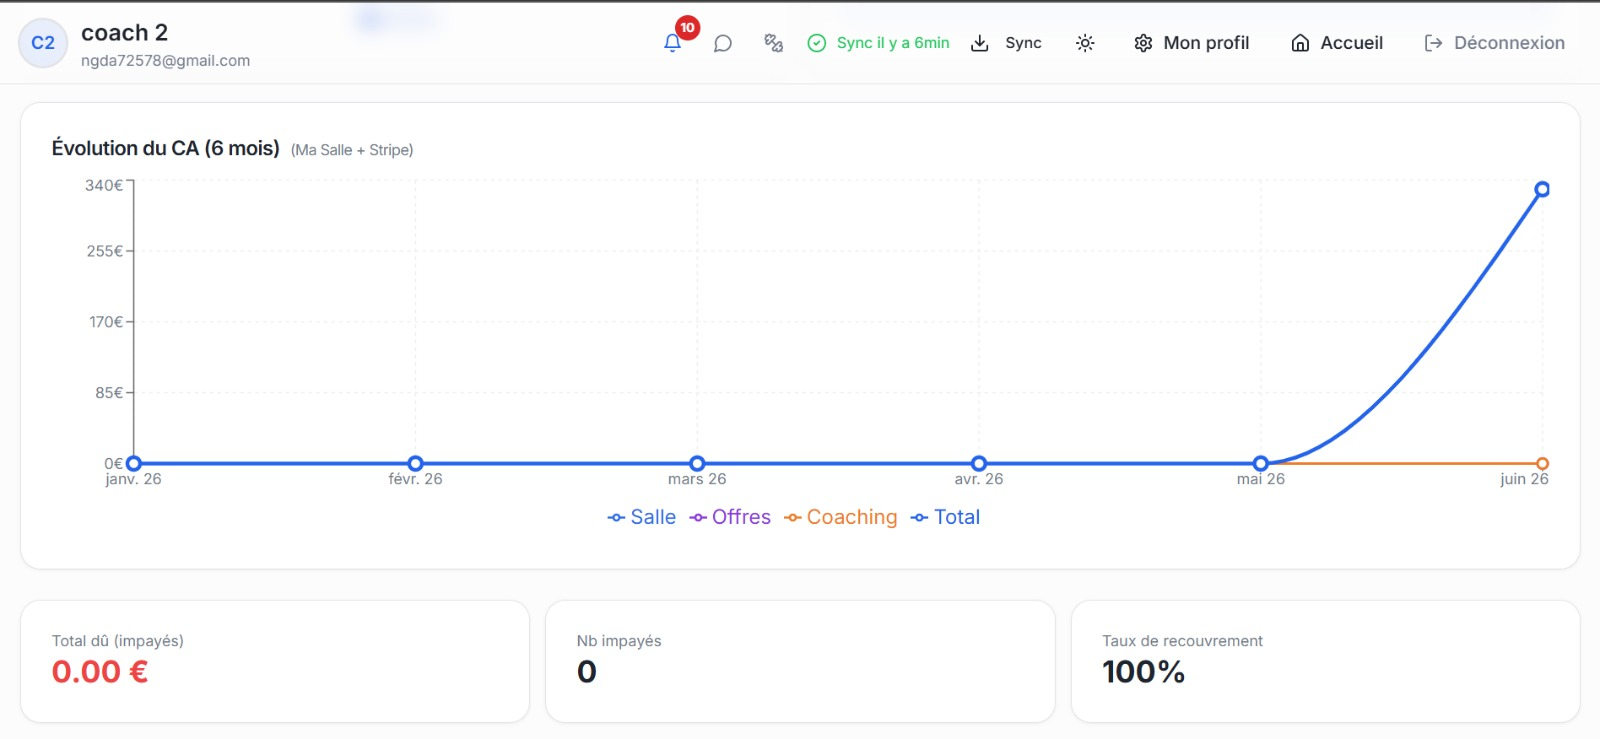
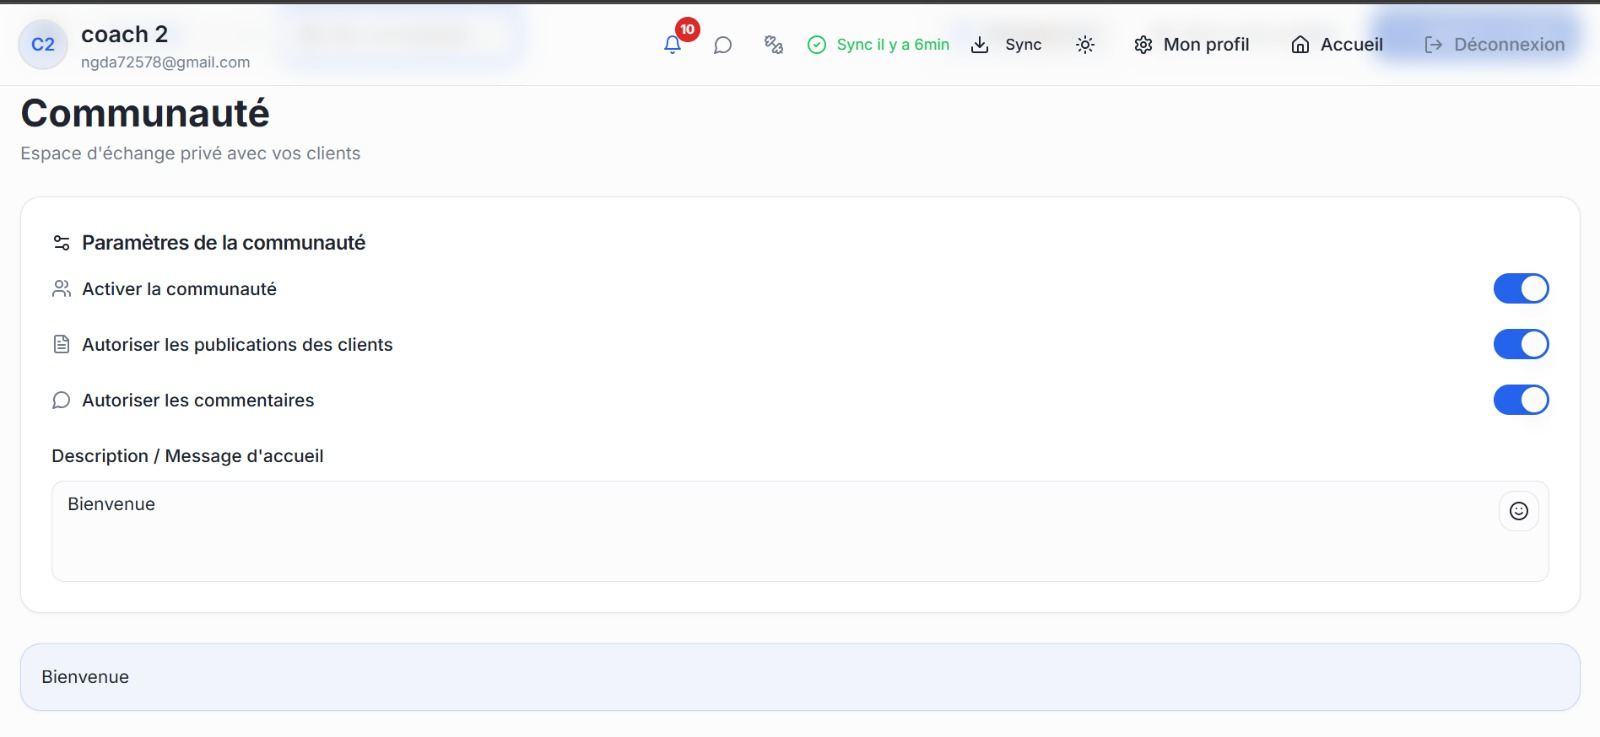
modif

diff --git a/index.html b/index.html
@@ -591,7 +591,9 @@
                     <i class="bi bi-trophy-fill"></i>
                   </div>
                   <p class="text-white-50 fs-5 mb-4 px-2">
-                    Tarification adaptée à la taille et aux besoins de votre structure. Contactez-nous pour recevoir une offre personnalisée.
+                    Tarification adaptée à la taille et aux besoins de votre
+                    structure. Contactez-nous pour recevoir une offre
+                    personnalisée.
                   </p>
                   <ul
                     class="list-unstyled text-white-50 fs-6 mb-5 text-start mx-auto"
